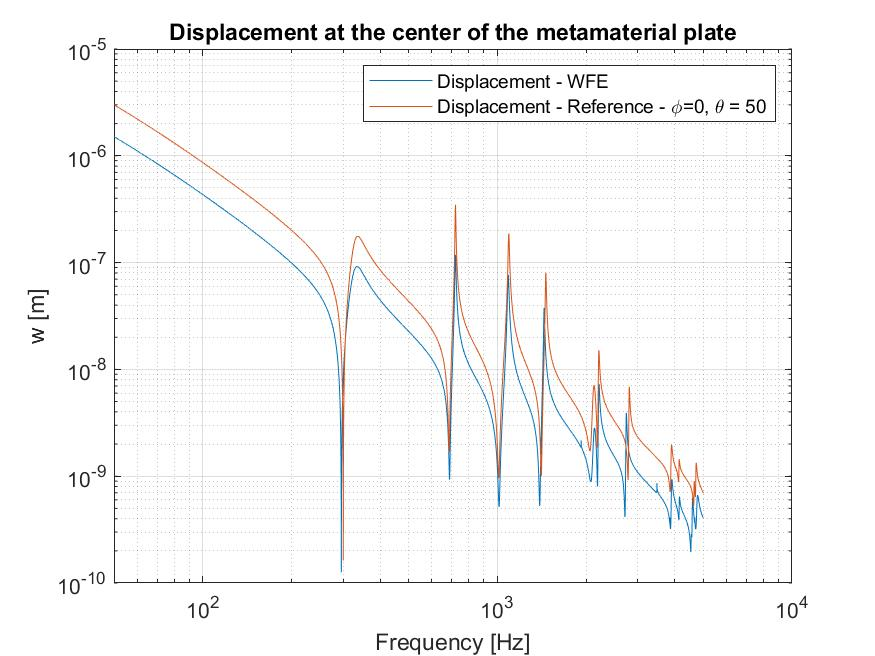
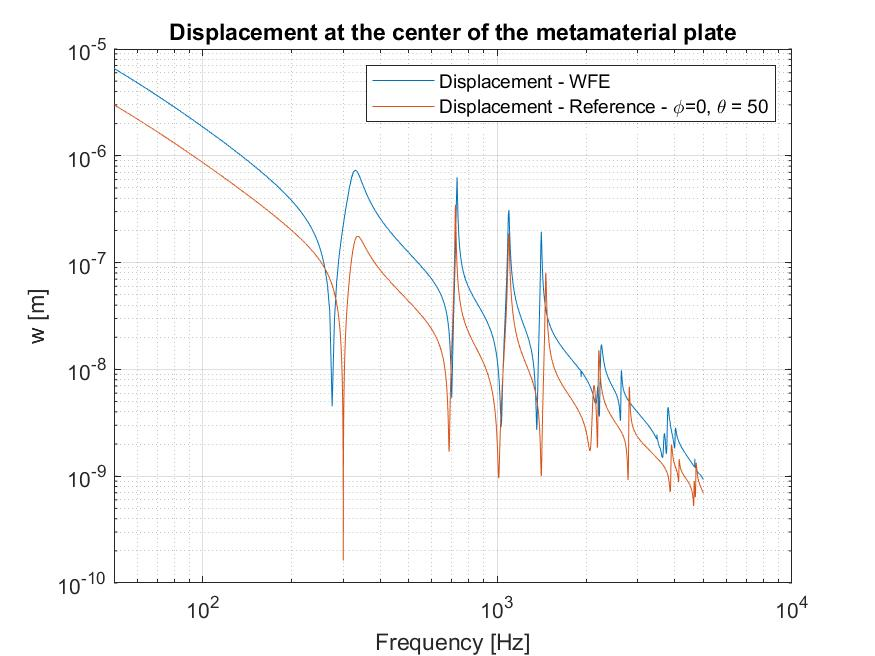
Commit - 13.07.22

diff --git a/consolidado_formulacao_completa/main_stl_plate_resonators_consolidado_caso_geral.m b/consolidado_formulacao_completa/main_stl_plate_resonators_consolidado_caso_geral.m
@@ -35,14 +35,16 @@ tic
 %same frequency vector as reference
 fmin = 50; %[Hz]
 fmax = 5000; %[Hz]
+df = 5;
 
-freq = logspace(log10(fmin),log10(fmax),1e4);
+% freq = logspace(log10(fmin),log10(fmax),1e4);
+freq = fmin:df:fmax;
 omega = 2*pi*freq; %[rad/s]
 nfreq = length(freq);
 
 % Number of elements
-nel_x =8;
-nel_y =8;
+nel_x =4;
+nel_y =4;
 
 % Other fixed parameters
 
@@ -240,7 +242,7 @@ for i=1:nfreq
     
     %Appling correction to FEXt 2 - Equation 3 deduction Giovanna
     M=n_index*m_index;
-    Fext2=(-P_inc-(P_inc*k*cos(theta)/M)*s_pinc)*Fext2;
+    Fext2 = 2*(-P_inc-(P_inc*k*cos(theta)/M)*s_pinc)*Fext2;
     
     % end Part 8
 
@@ -401,7 +403,7 @@ end
 
 figure
 W1_mn_interest = W1_mn_store(:,:,57);
-max_W1_mn = W1_mn_interest(5,5);
+max_W1_mn = W1_mn_interest(7,7);
 heatmap(m,n,log10(abs(real(W1_mn_interest./max_W1_mn))))
 title('Normalized values of harmonics for a given frequency')
 
@@ -513,9 +515,9 @@ title('Normalized values of harmonics for a given frequency')
 %% STL and pltae displacement(with fluid loading) graphs
 
 %Part 13 - STL calculation
- STL = -10*log10(tau_total);
+STL = -10*log10(tau_total);
 
- save('STL','STL')
+% save('STL','STL')
 
 %To be compared with figure 6b of the paper
 figure
@@ -530,7 +532,7 @@ legend('Displacement - WFE','Displacement - Reference - \phi=0, \theta = 50 ')
 
 grid on
 
- saveas(gcf,'displacement.jpg')
+% saveas(gcf,'displacement.jpg')
 
 %To be compared with figure 10 of the paper
 figure
